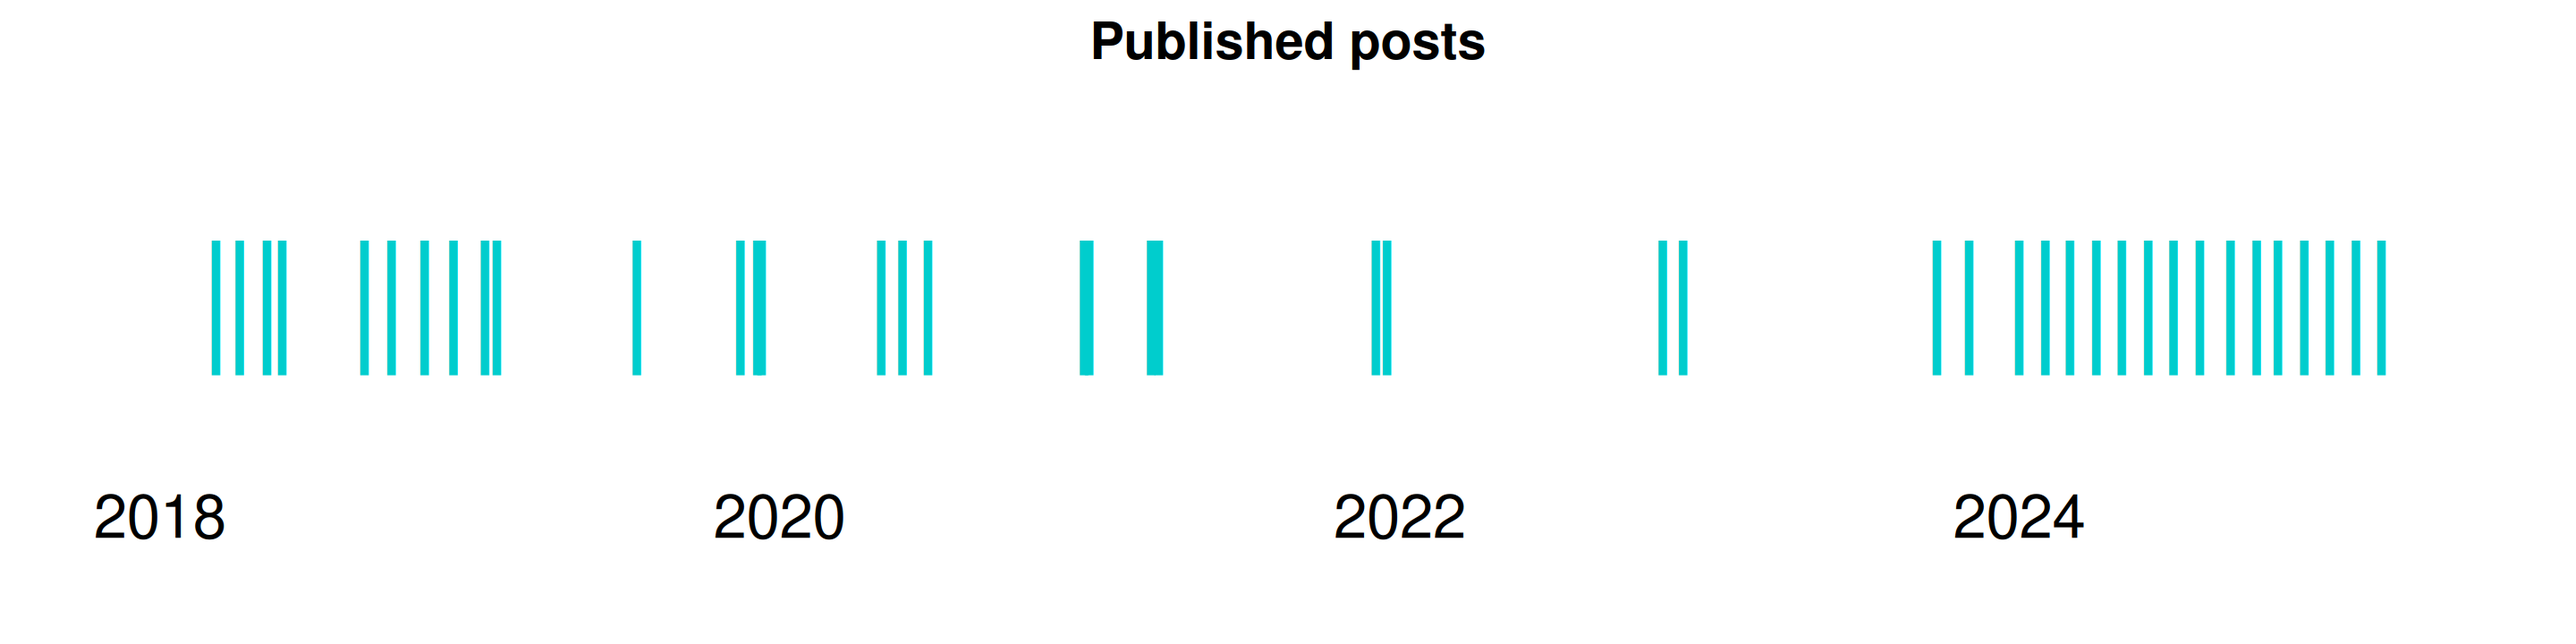
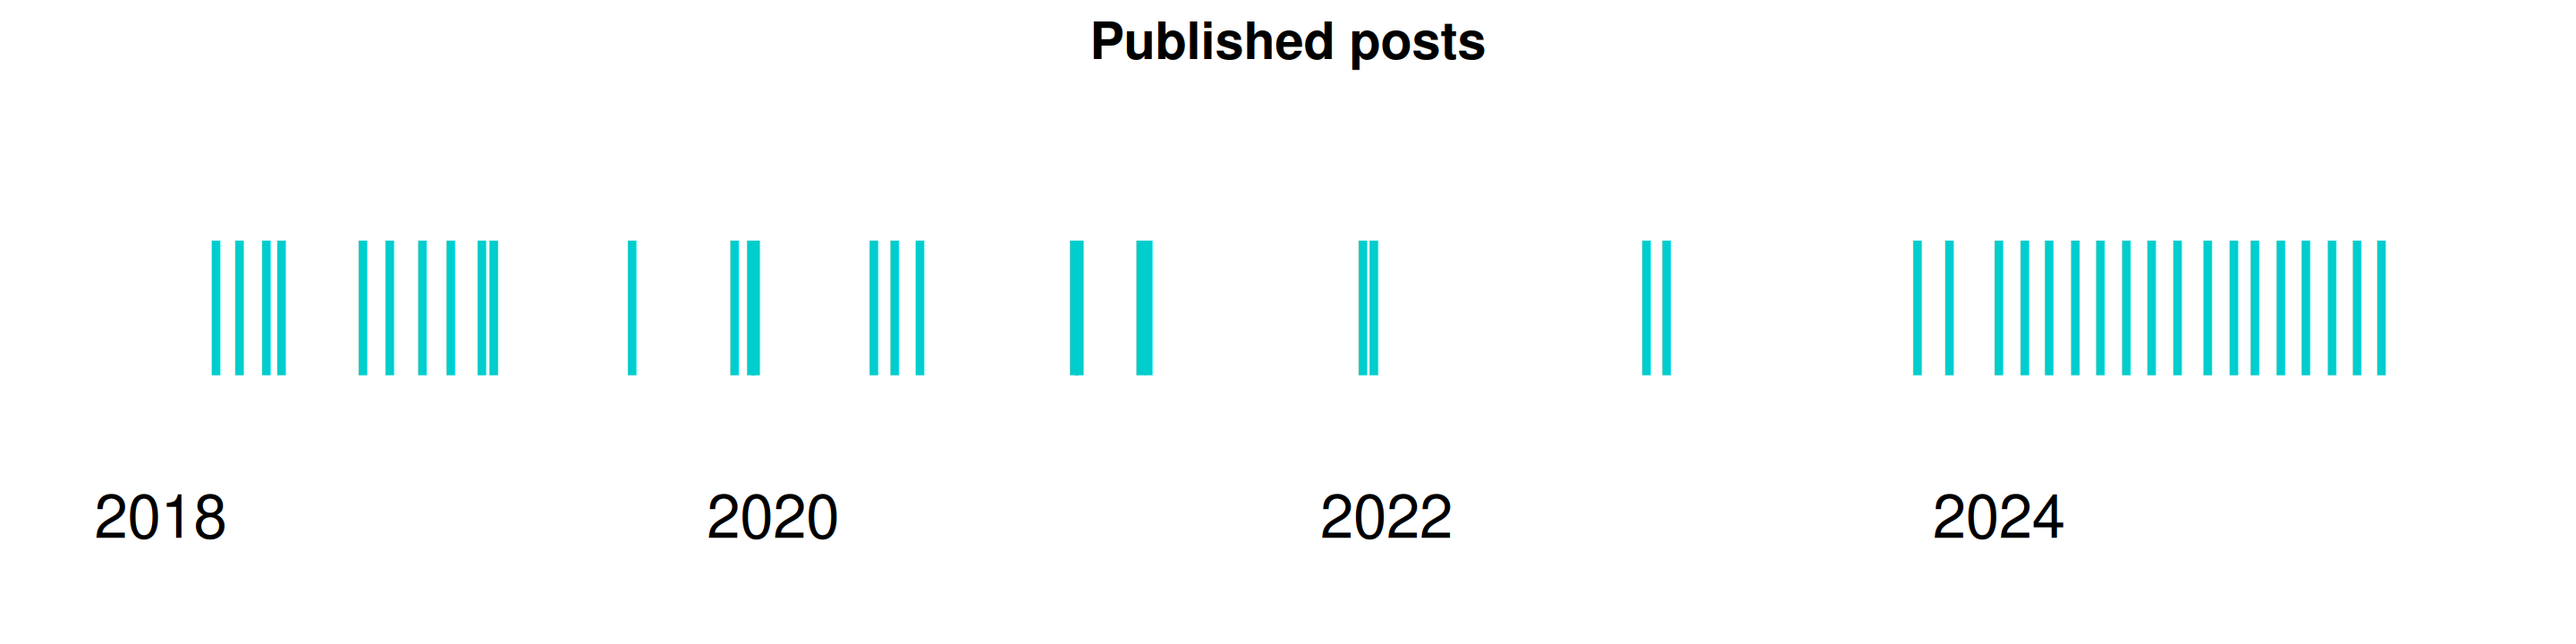
Re-build README.Rmd

diff --git a/README.md b/README.md
@@ -11,14 +11,13 @@ code for my content.
 
 ## Some stats
 
-🎉 DrMowinckels has **42** posts since **2018-03-08**!
+🎉 DrMowinckels has **43** posts since **2018-03-08**!
 
-📅 That’s a post roughly every **61** days, or about **0.49** posts per
+📅 That’s a post roughly every **60** days, or about **0.50** posts per
 month, since 2018-03-08.
 
-✍ The last post was published **23** days ago ([Harness Local LLMs and
-GitHub Copilot for Enhanced R Package
-Development](https://drmowinckels.io/blog/ollama)).
+✍ The last post was published **1** days ago ([“Positron: current joys
+and pains”](https://drmowinckels.io/blog/positron-debugging)).
 
 😉 I’ll post as often as I am able, and hope people find it interesting.
 I’d love your feedback in the comments!
@@ -32,6 +31,7 @@ I’d love your feedback in the comments!
 
 | Date       | Title                                                                                                                                                                                    |
 |:-----------|:-----------------------------------------------------------------------------------------------------------------------------------------------------------------------------------------|
+| 2025-04-01 | [“Positron: current joys and pains”](https://drmowinckels.io/blog/positron-debugging)                                                                                                    |
 | 2025-03-03 | [Harness Local LLMs and GitHub Copilot for Enhanced R Package Development](https://drmowinckels.io/blog/ollama)                                                                          |
 | 2025-02-01 | [Cracking the LinkedIn API through R](https://drmowinckels.io/blog/linkedin-api)                                                                                                         |
 | 2025-01-01 | [The difficult year](https://drmowinckels.io/blog/the-difficult-year)                                                                                                                    |
@@ -83,4 +83,4 @@ I’d love your feedback in the comments!
 Dray](https://www.rostrum.blog/2021/04/14/gha-readme/) and [Piping Hot
 Data](https://github.com/shannonpileggi/pipinghotdata_distill/blob/master/README.Rmd).*
 
-*Updated 2025-03-26 01:21:39.889841*
+*Updated 2025-04-02 01:25:59.078746*
